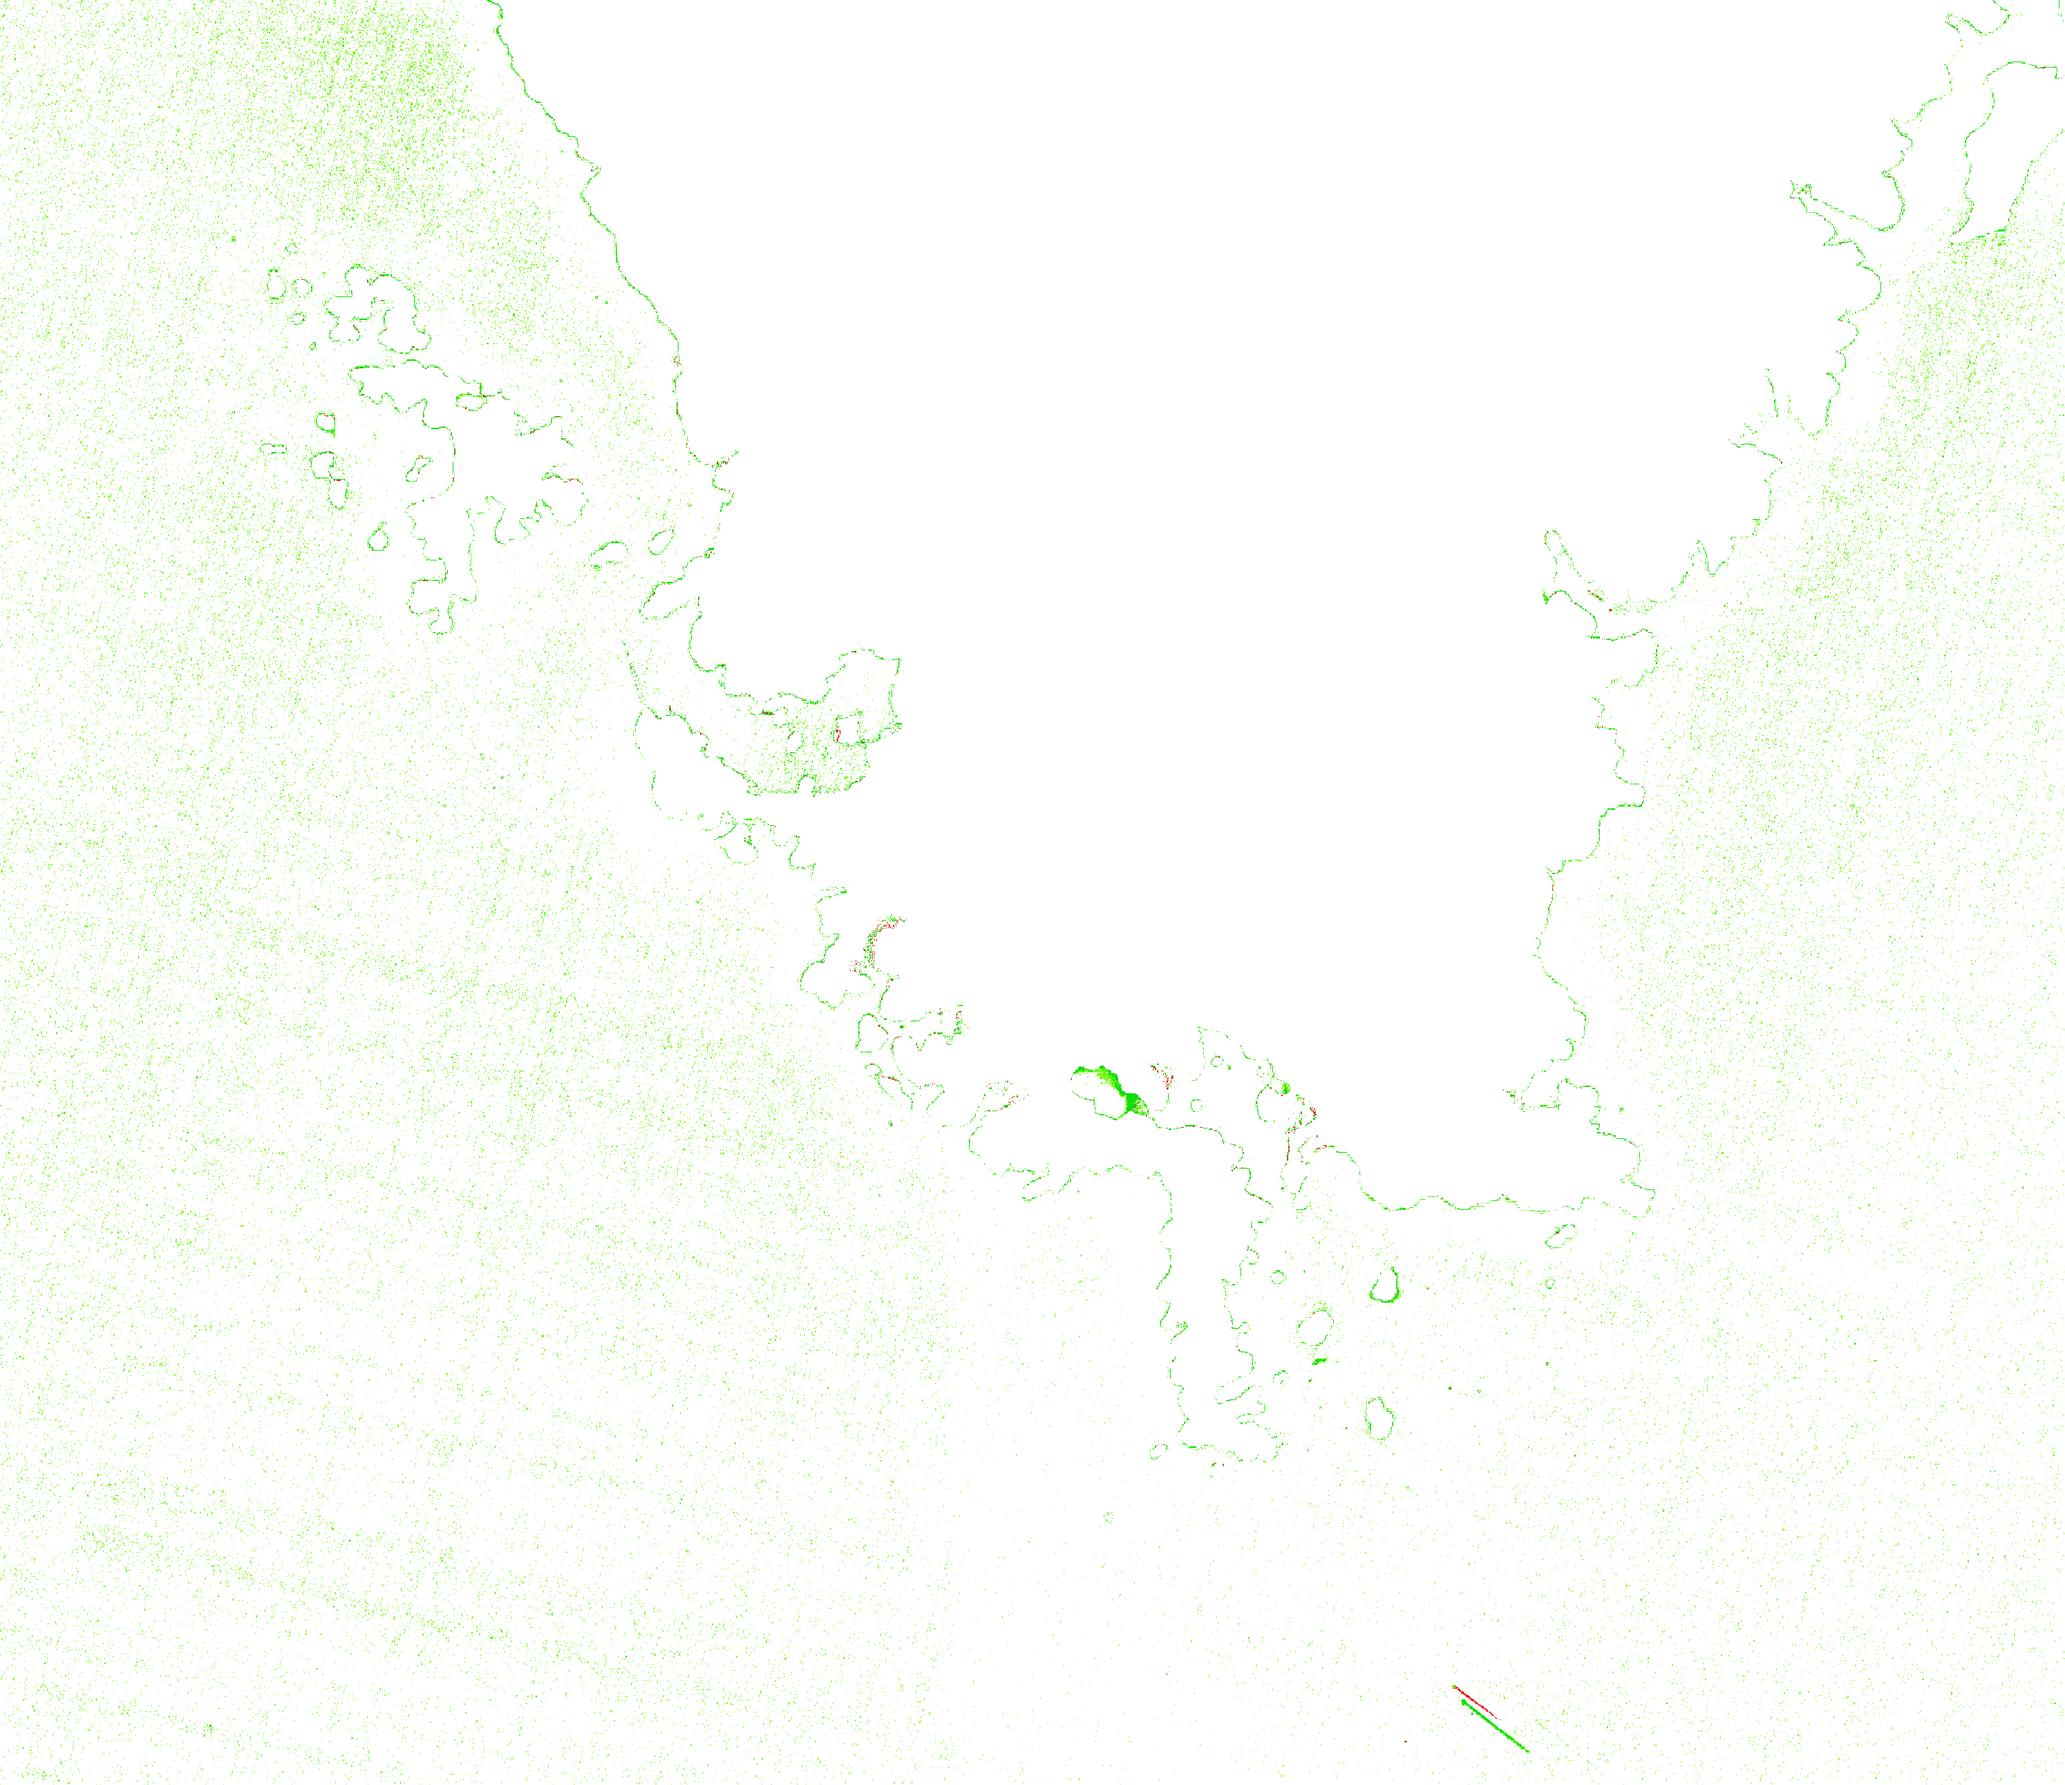
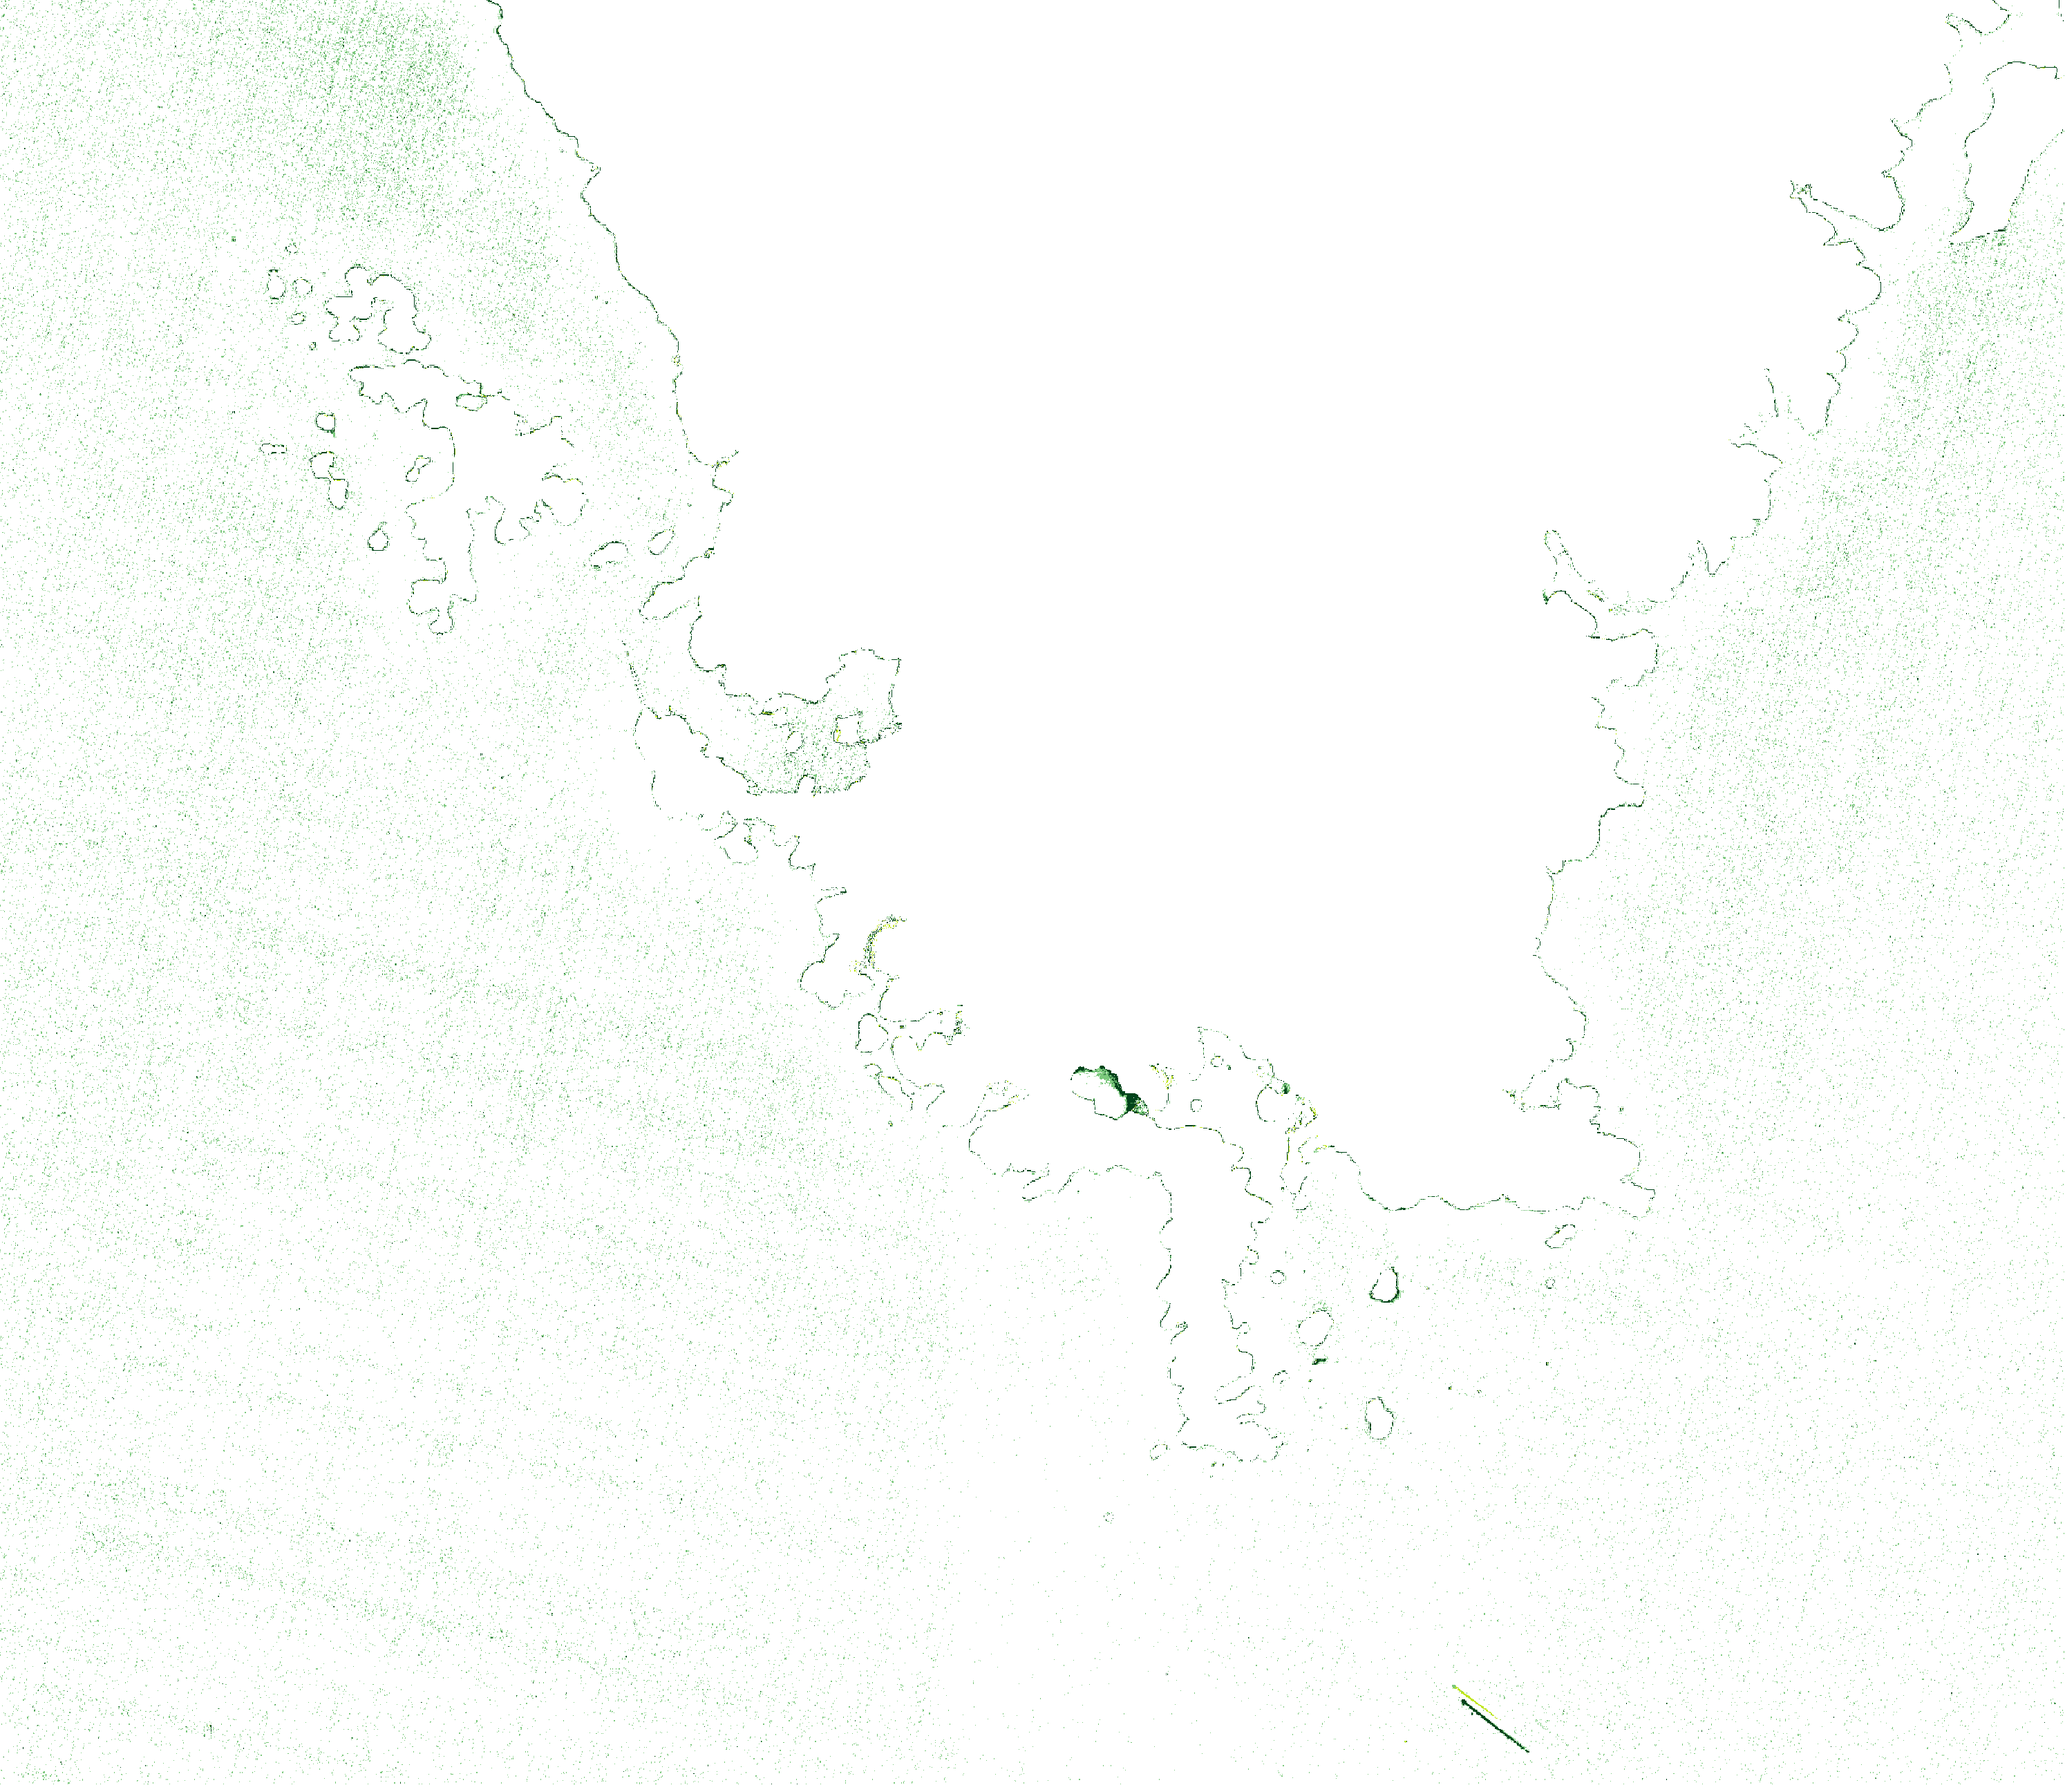
Add files via upload

Changed region(s): [[0.1245, 0.0, 0.2179, 0.1239], [0.5291, 0.5885, 0.5602, 0.6194], [0.3735, 0.4026, 0.4046, 0.4336]]

diff --git a/layers/layers.js b/layers/layers.js
@@ -1,15 +1,15 @@
 var wms_layers = [];
 
 
-        var lyr_GoogleSatellite_0 = new ol.layer.Tile({
-            'title': 'Google Satellite',
+        var lyr_GoogleHybrid_0 = new ol.layer.Tile({
+            'title': 'Google Hybrid',
             'type': 'base',
             'opacity': 1.000000,
             
             
             source: new ol.source.XYZ({
-    attributions: ' &middot; <a href="https://www.google.at/permissions/geoguidelines/attr-guide.html">Google Maps</a>',
-                url: 'https://mt1.google.com/vt/lyrs=s&x={x}&y={y}&z={z}'
+    attributions: ' &middot; <a href="https://www.google.at/permissions/geoguidelines/attr-guide.html">Map data ©2015 Google</a>',
+                url: 'https://mt1.google.com/vt/lyrs=y&x={x}&y={y}&z={z}'
             })
         });
 var lyr_Koliinacijanobakterija_1 = new ol.layer.Image({
@@ -52,17 +52,5 @@ var lyr_Zagaenje_3 = new ol.layer.Image({
                             })
                         });
 
-        var lyr_GoogleLabels_4 = new ol.layer.Tile({
-            'title': 'Google Labels',
-            'type': 'base',
-            'opacity': 1.000000,
-            
-            
-            source: new ol.source.XYZ({
-    attributions: ' &middot; <a href="https://www.google.at/permissions/geoguidelines/attr-guide.html">Google Maps</a>',
-                url: 'https://mt1.google.com/vt/lyrs=h&x={x}&y={y}&z={z}'
-            })
-        });
-
-lyr_GoogleSatellite_0.setVisible(true);lyr_Koliinacijanobakterija_1.setVisible(true);lyr_Morskavegetacija_2.setVisible(true);lyr_Zagaenje_3.setVisible(true);lyr_GoogleLabels_4.setVisible(true);
-var layersList = [lyr_GoogleSatellite_0,lyr_Koliinacijanobakterija_1,lyr_Morskavegetacija_2,lyr_Zagaenje_3,lyr_GoogleLabels_4];
+lyr_GoogleHybrid_0.setVisible(true);lyr_Koliinacijanobakterija_1.setVisible(true);lyr_Morskavegetacija_2.setVisible(true);lyr_Zagaenje_3.setVisible(true);
+var layersList = [lyr_GoogleHybrid_0,lyr_Koliinacijanobakterija_1,lyr_Morskavegetacija_2,lyr_Zagaenje_3];

diff --git a/resources/qgis2web.js b/resources/qgis2web.js
@@ -69,14 +69,17 @@ var map = new ol.Map({
     overlays: [overlayPopup],
     layers: layersList,
     view: new ol.View({
-        extent: [1501030.851852, 5576293.885841, 1588072.841022, 5619455.862139], maxZoom: 16, minZoom: 1
+        extent: [1501150.524614, 5576293.885841, 1587953.168260, 5619455.862139], maxZoom: 15, minZoom: 1
     })
 });
 
 var layerSwitcher = new ol.control.LayerSwitcher({tipLabel: "Layers"});
 map.addControl(layerSwitcher);
+layerSwitcher.hidePanel = function() {};
+layerSwitcher.showPanel();
 
-map.getView().fit([1501030.851852, 5576293.885841, 1588072.841022, 5619455.862139], map.getSize());
+
+map.getView().fit([1501150.524614, 5576293.885841, 1587953.168260, 5619455.862139], map.getSize());
 
 var NO_POPUP = 0
 var ALL_FIELDS = 1
